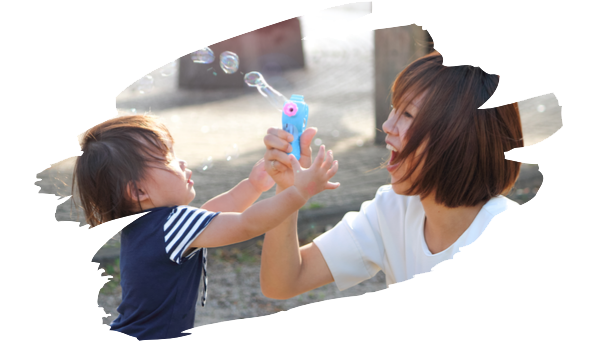
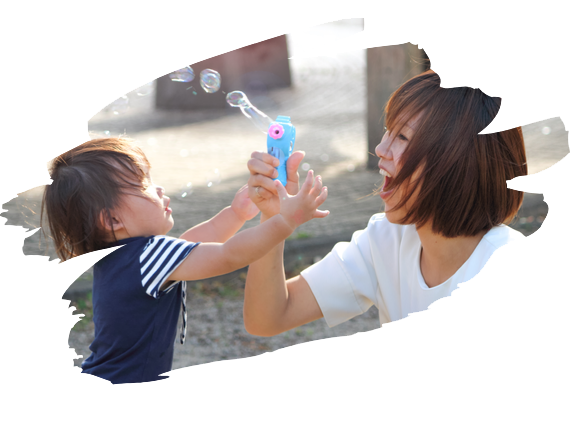
up

diff --git a/docs/index.html b/docs/index.html
@@ -156,7 +156,7 @@
   <div class="pt-5 pb-3 bg-dark" style="	background-image: linear-gradient(to bottom, rgba(0, 0, 0, 0.09), rgba(0, 0, 0, 0.09));	background-position: top left;	background-size: 100%;	background-repeat: repeat;">
     <div class="container">
       <div class="row">
-        <div class="col-sm-12 col-md-6"><img class="img-fluid d-block rounded-circle mx-auto" src="assets/img/222.png" width="80%"></div>
+        <div class="col-sm-12 col-md-6"><img class="d-block img-fluid" src="assets/img/222.png"></div>
         <div class="col-md-6 col-sm-12">
           <p class="lead">週1回の通学でOK</p>
           <p class="">当講座は、週1回通っていただくスケジュールとなっております（毎週水曜日）。社会人の方は働きながらの資格取得、主婦の方は子育てしながらの資格取得がしやすいスケジュールとなっています。</p>
